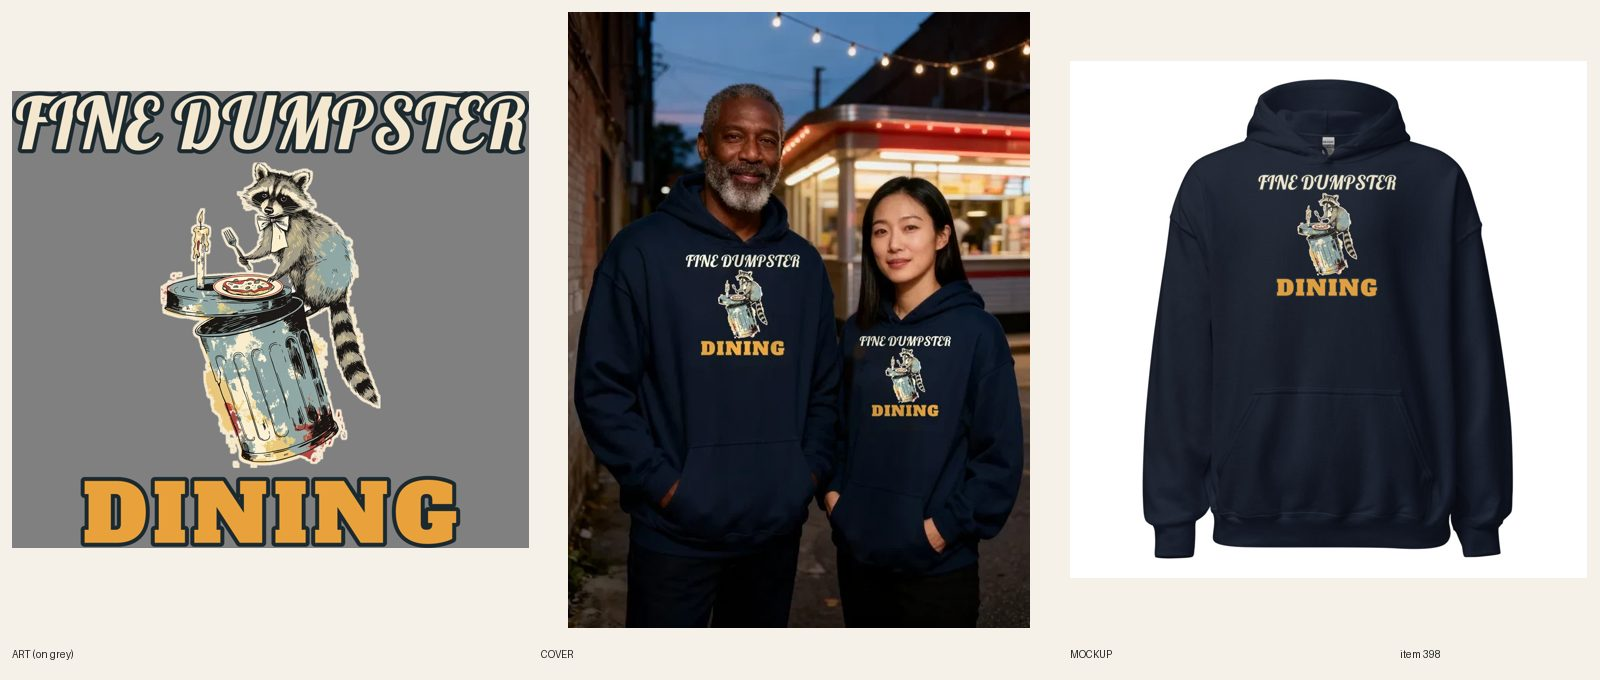
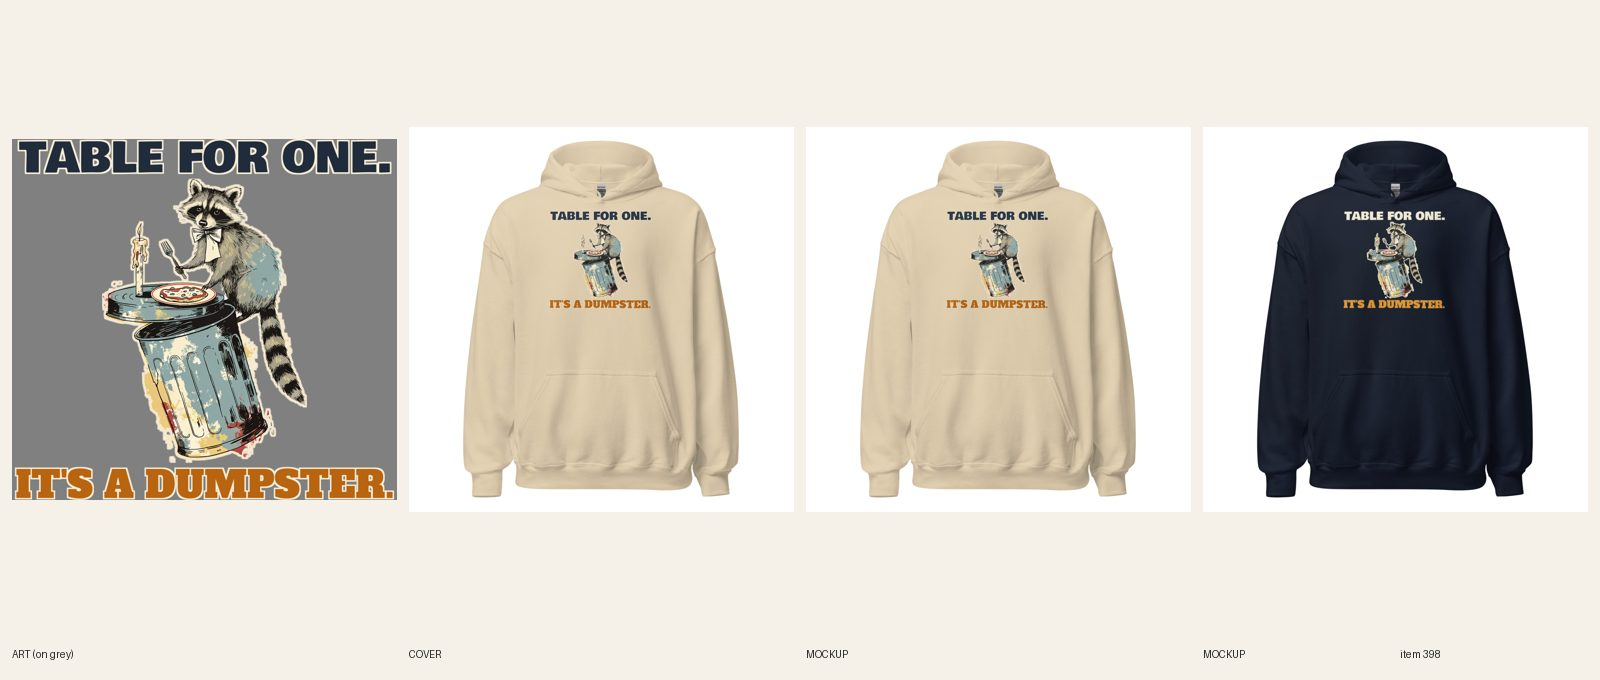
[C] review 398 (redo)
Claude-Session: https://claude.ai/code/session_01CCHcDj8LcJJ8qUPtKE3cvn

diff --git a/designs/c398/make.py b/designs/c398/make.py
@@ -1,0 +1,9 @@
+import sys; sys.path.insert(0,'.')
+from designs.lib import *
+im=Image.open('docs/print-files/398-fine-dumpster-dining.png').convert('RGBA'); W=im.width
+art=im.crop((0,468,W,2466)); art=art.crop(art.getbbox()); art=art.resize((int(art.width*1.25),int(art.height*1.25)),Image.LANCZOS)
+DK=(32,44,60,255); ORG=(232,150,40,255); DORG=(184,100,16,255)
+for tag,c1,k1,c2,k2,bg in (('sand',DK,CREAM,DORG,CREAM,(214,196,160,255)),('navy',CREAM,DK,ORG,DK,(38,50,88,255))):
+    h1=line("TABLE FOR ONE.",'bowlby',0.97,W,c1,k1,kw=29); h2=line("IT'S A DUMPSTER.",'alfa',0.985,W,c2,k2,kw=27)
+    print(tag,'headline px',h1.width,'punch px',h2.width,'heights',h1.height,h2.height,'art',art.size)
+    out=lockup(art,W,[h1],[h2],f'398-v2-table-{tag}',{tag:bg}); print(out.size,out.height/out.width)

diff --git a/docs/pipeline/398-raccoon-hoodie-fine-dumpster-dining.md b/docs/pipeline/398-raccoon-hoodie-fine-dumpster-dining.md
@@ -1,4 +1,4 @@
-status: BUILDING [C] 2026-10-20 08:51
+status: REVIEW
 shopify: gid://shopify/Product/15363408134448
 lane: C
 type: new
@@ -31,3 +31,4 @@ kd: 46
 - 2026-10-18 06:40 UTC builder [C]: cover done (fal $0.06, registry #589, 4th attempt with a pullover-only wording, no jackets): both wear navy pullover hoodies with hoods visible, hands in pockets, hair clear; the model redrew the print so both prints were composited from docs/print-files/398-fine-dumpster-dining.png (R6.9) and every word read. Sheet regenerated. REVIEW.
 - 2026-10-18 02:45 UTC director: LIVE (ACTIVE + Online Store/Headless/Google & YouTube, audit PASS 0 warn).
 - 2026-10-18 17:22 UTC director: QUALITY RESET grade C (new line + type), REDO. The product stays ACTIVE (same handle, URL, title keyword). 1. Line (R3.12, quality-reset 'Lines'): "FINE DUMPSTER / DINING": Overused raccoon-trash pun, only describes the picture. Write 5 candidates, keep the one a stranger laughs at in 3 seconds without backstory; kill lines that only describe the picture; if none of the 5 is funny, PARK it. 2. Quality reset type bar (docs/backlog/quality-reset.md, 'The new bar'): headline at least 90% of the art width, heavy, colors pulled from the art; second line at least 45% of the headline's height, never a thin script on a dark or mid garment; use the lettering as a shape (arch, stacked lockup, words breaking into the art), not a plain bar above and a script line below; no font used on more than 1 in 6 of the last 30 designs. 3. Keep the art if it carries the new line, else one new illustration (R4/R5). New print means a new cover per R6.10, copy line one rewritten for the new joke (R8.3), and a fresh review sheet (R7.7). While quality-reset.md says PAUSED, only lane A builds, and only the samples step 2 names.
+- 2026-10-20 08:56 UTC builder [C]: REDO new line + type (grade C; title card 7i done). 5 candidates, compared with Sorry About Your Windshield., Oops. Anyway. and Short Legs, Long Opinions: "TABLE FOR ONE. / IT'S A DUMPSTER." (kept: the bow-tied candlelit date meets the punchline, deadpan contrast), "FINE DUMPSTER DINING" (old overused pun), "NO RESERVATION. NO REGRETS.", "YES, I'M DRESSED UP. IT'S STILL A DUMPSTER.", "DATE NIGHT: DUMPSTER, 8 PM". Same raccoon-at-the-trash-can art at 125%. Measured ink widths (card 7h): headline TABLE FOR ONE. 3287 px / punch IT'S A DUMPSTER. 3334 px (101%). Bowlby One headline, Alfa Slab One punch. Light-file (R5.3.8): Sand file 1090266764 (headline dark slate with a cream keyline, punch dark orange), Navy file 1090266800 (headline cream with a slate keyline, punch orange); docs/print-files/398-v2-table-sand.png / -navy.png; print 3384 x 3173, FW 1500 TOP 0 (about 1,410 px), 12/12 relinked (verified on the API). 2 fronts replaced in place, read at phone size. Title set to "Unisex Raccoon – Table for One, It's a Dumpster Hoodie" (handle unchanged); copy, FAQ and SEO rewritten; handle in retired-covers.json. Plain product shot. fal $0.

diff --git a/docs/intake-log.md b/docs/intake-log.md
@@ -19,6 +19,7 @@ RUNNING director since 2026-10-20 07:17 UTC
 RUNNING lane B since 2026-10-20 07:29 UTC
 2026-10-20 08:00 UTC — [E] Builder run: redid #608 Women's Pickleball tee (line + type: POLITE SMILE. / PERSONAL VENDETTA., same serene-lady art, Bevan, dark-ink file on 5 light colors, 30/30 synced). REVIEW. fal $0.
 RUNNING lane C since 2026-10-20 07:00 UTC
+2026-10-20 08:56 UTC — [C] Builder run: redid #398 Unisex Raccoon hoodie (new line + type: TABLE FOR ONE. / IT'S A DUMPSTER., headline 3287 px / punch 3334 px, Bowlby + Alfa, same raccoon art, Sand file 1090266764 + Navy file 1090266800, FW 1500 TOP 0, 12/12 relinked, 2 fronts replaced in place, title + copy + SEO updated). REVIEW. fal $0.
 2026-10-20 08:51 UTC — [C] Builder run: redid #405 Unisex Anime dragon hoodie (new line + type: GOLD IS OVERRATED. / I PREFER DUMPLINGS., headline 3330 px / punch 3380 px, Big Shoulders + Bowlby, same dragon art, Sand file 1090264689 + Navy file 1090264716, FW 1500 TOP 0, 12/12 relinked, 2 fronts replaced in place, title + copy + SEO updated). REVIEW. fal $0.
 2026-10-20 08:46 UTC — [C] Builder run: redid #507 Women's National Park oversized hoodie round 3 (director note: scene cut to plume, steam, trees and pool with worn edges, no panel; Dust file 1090262138 + Navy file 1090262227, FW 1500 TOP 0, 12/12 relinked, 2 fronts replaced, copy updated). REVIEW. fal $0.
 2026-10-20 08:37 UTC — [C] Builder run: redid #509 Women's National Park zip hoodie round 2 (director note: shield silhouette broken, bottom point cut at the river line, ragged worn edges all round, chest copy rebuilt, Ash file 1090258924 + Navy file 1090258961, chest 1090258837, 12/12 relinked, back mockups replaced). REVIEW. fal $0.
